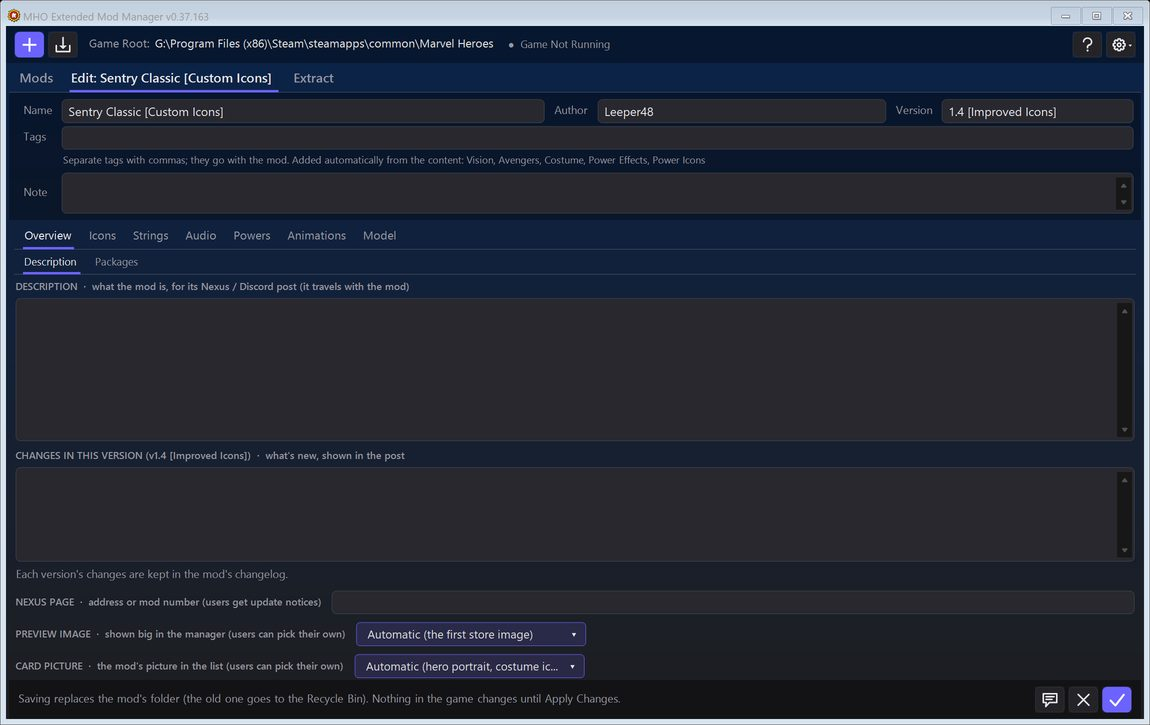
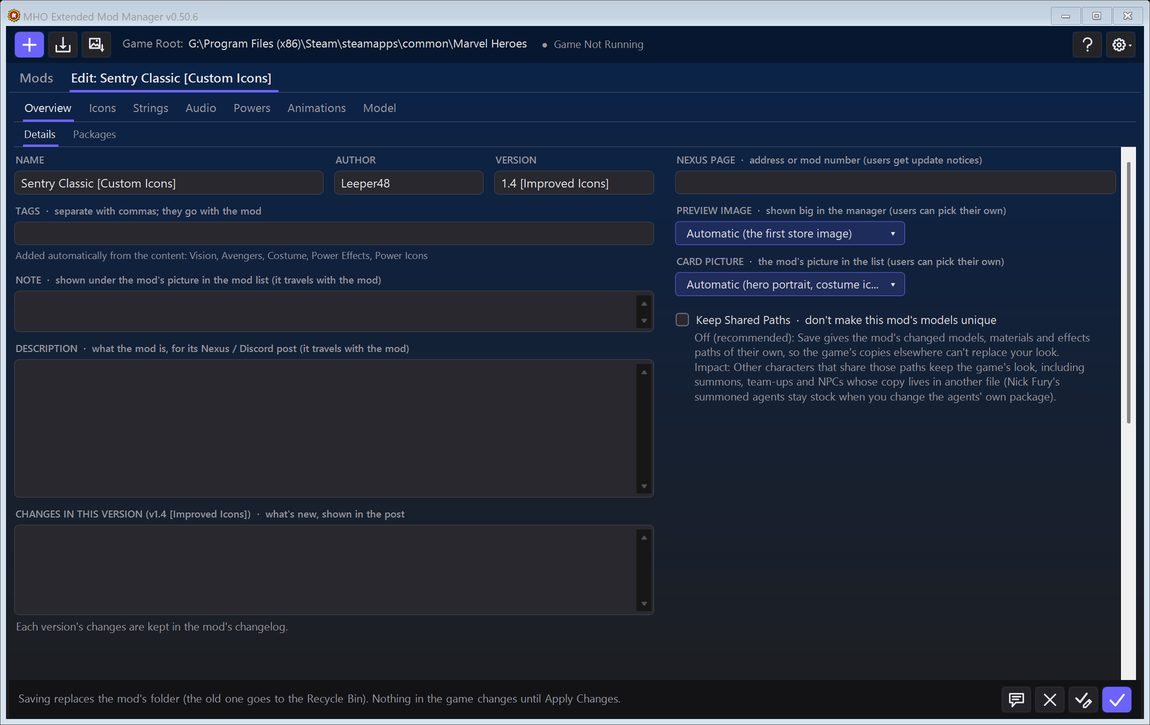
MHO Extended Mod Manager 0.50.7: Powers tab frames the character on a pick; release notice, manual screenshots

diff --git a/MhoExtendedModManager/Manual/manual.html b/MhoExtendedModManager/Manual/manual.html
@@ -324,6 +324,7 @@ function mhoNext(dir) {
 <li>Save Changes, then Apply Changes.</li>
 </ol>
 <p><b>Dodge ghosts from your model:</b> many heroes leave ghost copies of themselves when they dodge (54 of 66). The <b>Dodge</b> tile after <b>Char</b> in the power bar goes straight there (Parts, with the dodge playing; the hero's other own effects, such as level-up, get tiles of their own too). <b>Parts</b> shows <b>Dodge Ghosts</b> under the list: <b>Make Them From This Model</b> makes them from the mod's model, at the character's own size and where it stands: each in the hero's combat idle, leaning 10° another way (forward, back, left, right) to look like it's moving. <b>Lean ▾</b> changes a ghost's lean, and the <b>Lean</b> slider how far they all lean (10° at first). To choose a ghost's pose, select it, pick an animation in the preview and drag <b>Frame</b> to the moment you want, then <b>Use This Pose</b>; <b>Automatic</b> takes that ghost back to its automatic pose. <b>Show Pose</b> (or a double-click on a row) takes the preview to a ghost's animation and frame. <b>Exact Size, on the Ground</b> (on) undoes the effect's own 1.1× size and 5-unit drop, so the ghosts stand on the ground at the character's size; Look ▾ → <b>Ground</b> shows the floor (a grid of hexagons, 50 units across) to check it. The preview shows the ghosts at once (▶ on Dodge Effect plays them), and the Color tab recolors them. Save writes them into the hero's package, so every costume of the hero shows them. <b>Game's Ghosts</b> puts the game's back.</p>
+<figure><img src="img/editor-dodge-ghosts.jpg" alt="The Dodge tile: Captain Carter's dodge ghosts made from her model, each in the combat idle leaning another way, with Use This Pose, Show Pose, Automatic, Game's Ghosts, Exact Size, on the Ground and the Lean slider."><figcaption>The Dodge tile: Captain Carter's dodge ghosts made from her model, each in the combat idle leaning another way, with Use This Pose, Show Pose, Automatic, Game's Ghosts, Exact Size, on the Ground and the Lean slider.</figcaption></figure>
 <p><b>Example:</b> Invisible Woman's hover when she runs a while: <b>Invisible Woman: Character</b> → untick <b>Can Transition to Hover</b>. She keeps running, with no disc, hover effects or hover sound (tested in game). Her travel power (Levitating Disc) is a power of its own: its disc is the <b>Flyingdisc</b> attachment, its glow and sounds are its effects and sounds.</p>
 <p><b>What it changes:</b> Each part is switched off inside the game's own package (an effect's particle system, a sound's events or an attachment set to none, a setting set to false); Save puts that package in the mod as the game's copy with the change, so every costume of the hero is affected, and MHModManager can install the mod too. Tick a part again for the game's own: a package that came in only for its parts leaves the mod.</p>
 </div>
@@ -649,7 +650,7 @@ function mhoNext(dir) {
 <tr><td>Animations</td><td>every animation the costume plays; swap any for another character's or mod's, one by one or many at once (see <a href="#animations">Animations</a>)</td></tr>
 <tr><td>Model</td><td>put a model of your own (a Marvel Future Fight character or an FBX) on one of the mod's character packages (see <a href="#model">Model</a>)</td></tr>
 </table>
-<figure><img src="img/editor-overview.jpg" alt="The Editor: name, author, version, tags and note at the top, then the tab groups (Overview, Icons, Strings, Audio, Powers, Animations, Model)."><figcaption>The Editor: name, author, version, tags and note at the top, then the tab groups (Overview, Icons, Strings, Audio, Powers, Animations, Model).</figcaption></figure>
+<figure><img src="img/editor-overview.jpg" alt="The Editor on Overview → Details: name, author, version, tags, note, description and this version's changes on the left; the Nexus page, pictures and Keep Shared Paths on the right. The tab groups (Overview, Icons, Strings, Audio, Powers, Animations, Model) are above."><figcaption>The Editor on Overview → Details: name, author, version, tags, note, description and this version's changes on the left; the Nexus page, pictures and Keep Shared Paths on the right. The tab groups (Overview, Icons, Strings, Audio, Powers, Animations, Model) are above.</figcaption></figure>
 <p>When a mod is for one costume, the image tabs open filtered to that costume's images. <b>Create Post</b> writes a Nexus and a Discord post for the mod, with images, and keeps it with the mod.</p>
 
 <h2 id="powers">Power Colors</h2>

diff --git a/MhoExtendedModManager/WhatsNew.cs b/MhoExtendedModManager/WhatsNew.cs
@@ -34,7 +34,24 @@ static class WhatsNew
     const string Discord1 = "https://discord.com/channels/1130836076332863580/1553841408471867442";
     const string Discord2 = "https://discord.com/channels/1142968916205903942/1553842238969352263";
 
-    public static IReadOnlyList<Notice> Notices => ModelTabReleased ? [VoiceEffects(), DarkPowers(), SafeUnique(), UnibeamAndShared(), CrashChecks(), AddRigs(), PropTargets(), AdjustColors(), TidyData(), NexusSignIn(), PhoenixEffects(), AnyTarget(), TextureManager(), HistorySmall(), PowersPlaced(), ScreenFit(), FormatsAndEditors(), SizeAndNpcs(), ModelNotice(), SingleColors(), Editor(PowersAndAnimations)] : [SingleColors(), Editor(PowersAndAnimations)];
+    public static IReadOnlyList<Notice> Notices => ModelTabReleased ? [PartsAndGhosts(), VoiceEffects(), DarkPowers(), SafeUnique(), UnibeamAndShared(), CrashChecks(), AddRigs(), PropTargets(), AdjustColors(), TidyData(), NexusSignIn(), PhoenixEffects(), AnyTarget(), TextureManager(), HistorySmall(), PowersPlaced(), ScreenFit(), FormatsAndEditors(), SizeAndNpcs(), ModelNotice(), SingleColors(), Editor(PowersAndAnimations)] : [SingleColors(), Editor(PowersAndAnimations)];
+
+    /// <summary>0.50.7 (Kurt, 2026-10-18): parts, dodge ghosts, the editor's new layout, the target's props, a faster editor.</summary>
+    static Notice PartsAndGhosts() => new(
+        "0.50.7-parts-ghosts", "0.50.7",
+        "[!]Powers tab → Parts: Switch off a power's or a hero's settings (Invisible Woman's hover when she runs), attachments, effects and sounds. ▶ shows an effect or plays a sound. The Char tile lists the hero's own parts, and its Color recolors them." + nl + nl +
+        "[!]Dodge ghosts from your model: The Dodge tile → Make Them From This Model." + nl +
+        "  • Your model at its own size, in the combat idle, each ghost leaning another way (the Lean slider sets how far)." + nl +
+        "  • Use This Pose takes any animation's frame; every costume of the hero shows them." + nl + nl +
+        "Model tab → Parts: The Target's Props lists the target costume's own props (Black Cat's belt). Untick one to leave it off." + nl + nl +
+        "The Editor has more room:" + nl +
+        "  • Name, author, version, tags and note are in Overview → Details." + nl +
+        "  • Powers: icon tiles under a much bigger 3D view." + nl +
+        "  • Save and Keep Editing stays where you are, with no reload; a dot after the name means unsaved changes." + nl + nl +
+        "3D views: A hexagon floor (Look ▾ → Ground). Picking a power frames the whole character." + nl + nl +
+        "Faster over a long session: Closed editors no longer stay in memory." + nl + nl +
+        "If something doesn't work, please report it on Discord: [MHServerEmu Development](" + Discord1 + ") or [TAHITI](" + Discord2 + ").",
+        "w-parts");
 
     /// <summary>0.37.292 (Kurt, 2026-10-17): voice effects, team-up voices, moved costumes that hung the game.</summary>
     static Notice VoiceEffects() => new(

diff --git a/MhoExtendedModManager/Gui/MainForm.Tests.cs b/MhoExtendedModManager/Gui/MainForm.Tests.cs
@@ -201,6 +201,9 @@ sealed partial class MainForm
         {
             editor.SelectTab(i);
             await Task.Delay(editor.TabTitle(i) is "Packages" or "Store Images" ? 6000 : editor.TabTitle(i) is "Animations" or "Powers" ? 9000 : editor.TabTitle(i) is "Model" ? 12000 : 1500);   // icon names / previews / 3D models load in the background
+            // (the Model tab's target props listed, for the manual's picture)
+            if (editor.TabTitle(i) is "Model" && editor.ModelPageForTest is { } mpage) for (int w = 0; w < 600 && mpage.TargetPropLabels.Count == 0; w++) await Task.Delay(100);
+            if (editor.TabTitle(i) is "Model") await Task.Delay(4000);
             using var b = new Bitmap(Width, Height);
             DrawToBitmap(b, new Rectangle(0, 0, Width, Height));
             b.Save(Path.Combine(dir, $"editor_{i}_{editor.TabTitle(i).Replace(' ', '_')}.png"));
@@ -561,6 +564,7 @@ sealed partial class MainForm
             var p = MhoPackageModifier.Package.Open(Path.Combine(m2.Folder, file));
             var gx = DodgeGhosts.GhostExports(p, file, Path.Combine(m2.Folder, file));
             lines.Add($"{(gx.Count > 0 && gx.All(i => p.Exports[i].ObjectName.EndsWith("_mod")) ? "PASS" : "FAIL")} the package's ghosts: {string.Join(", ", gx.Select(i => p.Exports[i].ObjectName))}");
+            if (Environment.GetEnvironmentVariable("MHO_GHOSTS_KEEP") == "1") { File.WriteAllLines(outFile, lines); return; }   // (screenshots: the ghosts stay)
             // back to the game's
             lines.Add($"{(await editor!.SelectCharacterForTest() ? "PASS" : "FAIL")} the reopened editor shows the ghosts");
             editor.GameGhostsForTest();

diff --git a/MhoExtendedModManager/Gui/ModEditorView.Powers.cs b/MhoExtendedModManager/Gui/ModEditorView.Powers.cs
@@ -570,7 +570,7 @@ sealed partial class ModEditorView
         if (opacitySlider != null) opacitySlider.Value = e?.Opacity ?? 1;
         fillingPower = false;
         // a character's own parts (the dodge, a hover): their effects take the color too (Kurt, 2026-10-17)
-        if (IsCharacterEntry(p.Prototype)) { CharacterSelected(p); return; }
+        if (IsCharacterEntry(p.Prototype)) { CharacterSelected(p); powerPreview?.FrameFull(); return; }
         powerCaption.Text = (e == null ? "The Game's Colors" : "Recolored")
             // (no animation of its own: The Will of Doom, procs, passives: the preview plays its effects over the idle, as the
             // Mods tab and the Model tab do; Kurt, 2026-10-12)
@@ -601,6 +601,7 @@ sealed partial class ModEditorView
         ShowBorrow(p);
         LoadPalette(p);
         ShowMapRows();
+        powerPreview?.FrameFull();   // (the whole character, as the power buttons do)
     }
 
     /// <summary>The Dark button: the selected power dark and more solid (Saturation 0, Brightness 0, Opacity 500 %: the value

diff --git a/MhoExtendedModManager/Gui/StorePreview.Playback.cs b/MhoExtendedModManager/Gui/StorePreview.Playback.cs
@@ -115,10 +115,24 @@ sealed partial class StorePreview
                 p3.SetAnimations(t.Result, name, at, false);
                 AnimationsLoaded?.Invoke();
                 OwnAfterAnimations();
+                if (frameWanted) FrameFull();
                 Invalidate();
             }, TaskScheduler.FromCurrentSynchronizationContext());
         }
     }
+
+    /// <summary>
+    /// Frames the whole character, centred (the editor's Powers tab, when a power or part is picked: Kurt, 2026-10-18, as the
+    /// power buttons do; the dodge left the camera on the feet). While a model loads, once its animations are in.
+    /// </summary>
+    public void FrameFull()
+    {
+        frameWanted = true;
+        if (p3?.Animator == null || ownPending) return;
+        frameWanted = false;
+        p3.FrameFull();
+    }
+    bool frameWanted;
 
     /// <summary>The view a mesh starts from: the one turned to on this PC, else the mod author's (manifest PreviewViews).</summary>
     float[]? StartView(MeshRef r) =>

diff --git a/MhoExtendedModManager/Gui/Preview3D.cs b/MhoExtendedModManager/Gui/Preview3D.cs
@@ -480,6 +480,9 @@ sealed partial class Preview3D : UserControl
     }
 
     // --- framing and full screen ----------------------------------------------------------------------------------------------
+    /// <summary>The whole character, centred (a power picked elsewhere: the editor's Powers tab).</summary>
+    public void FrameFull() => FrameShot(Framing.Shot.Full);
+
     /// <summary>A framing button: aims the camera (head centred).</summary>
     void FrameShot(Framing.Shot shot)
     {
